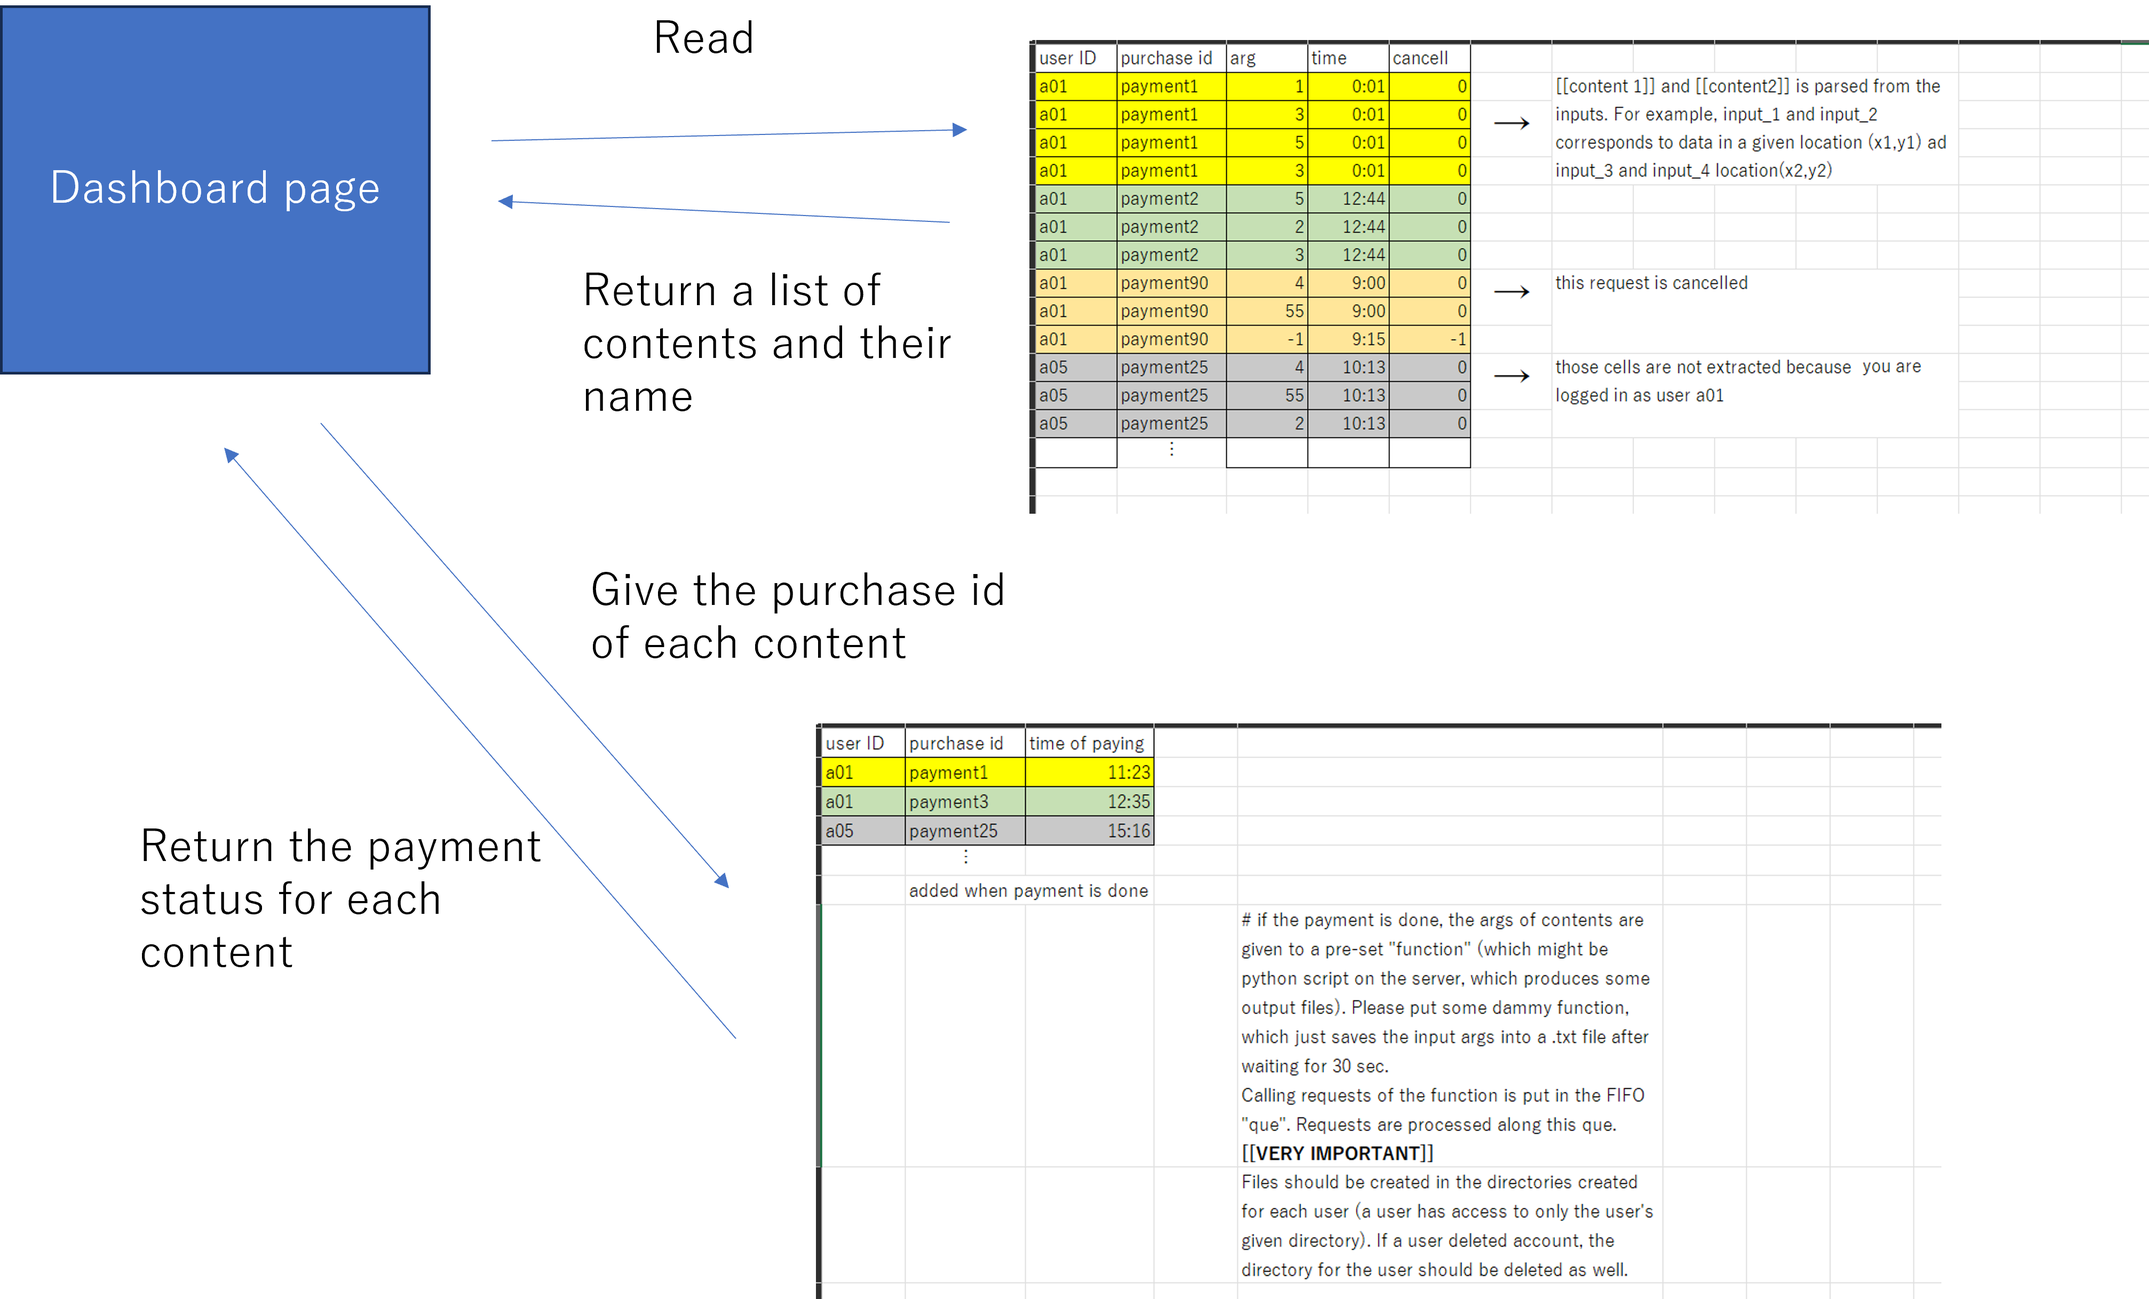
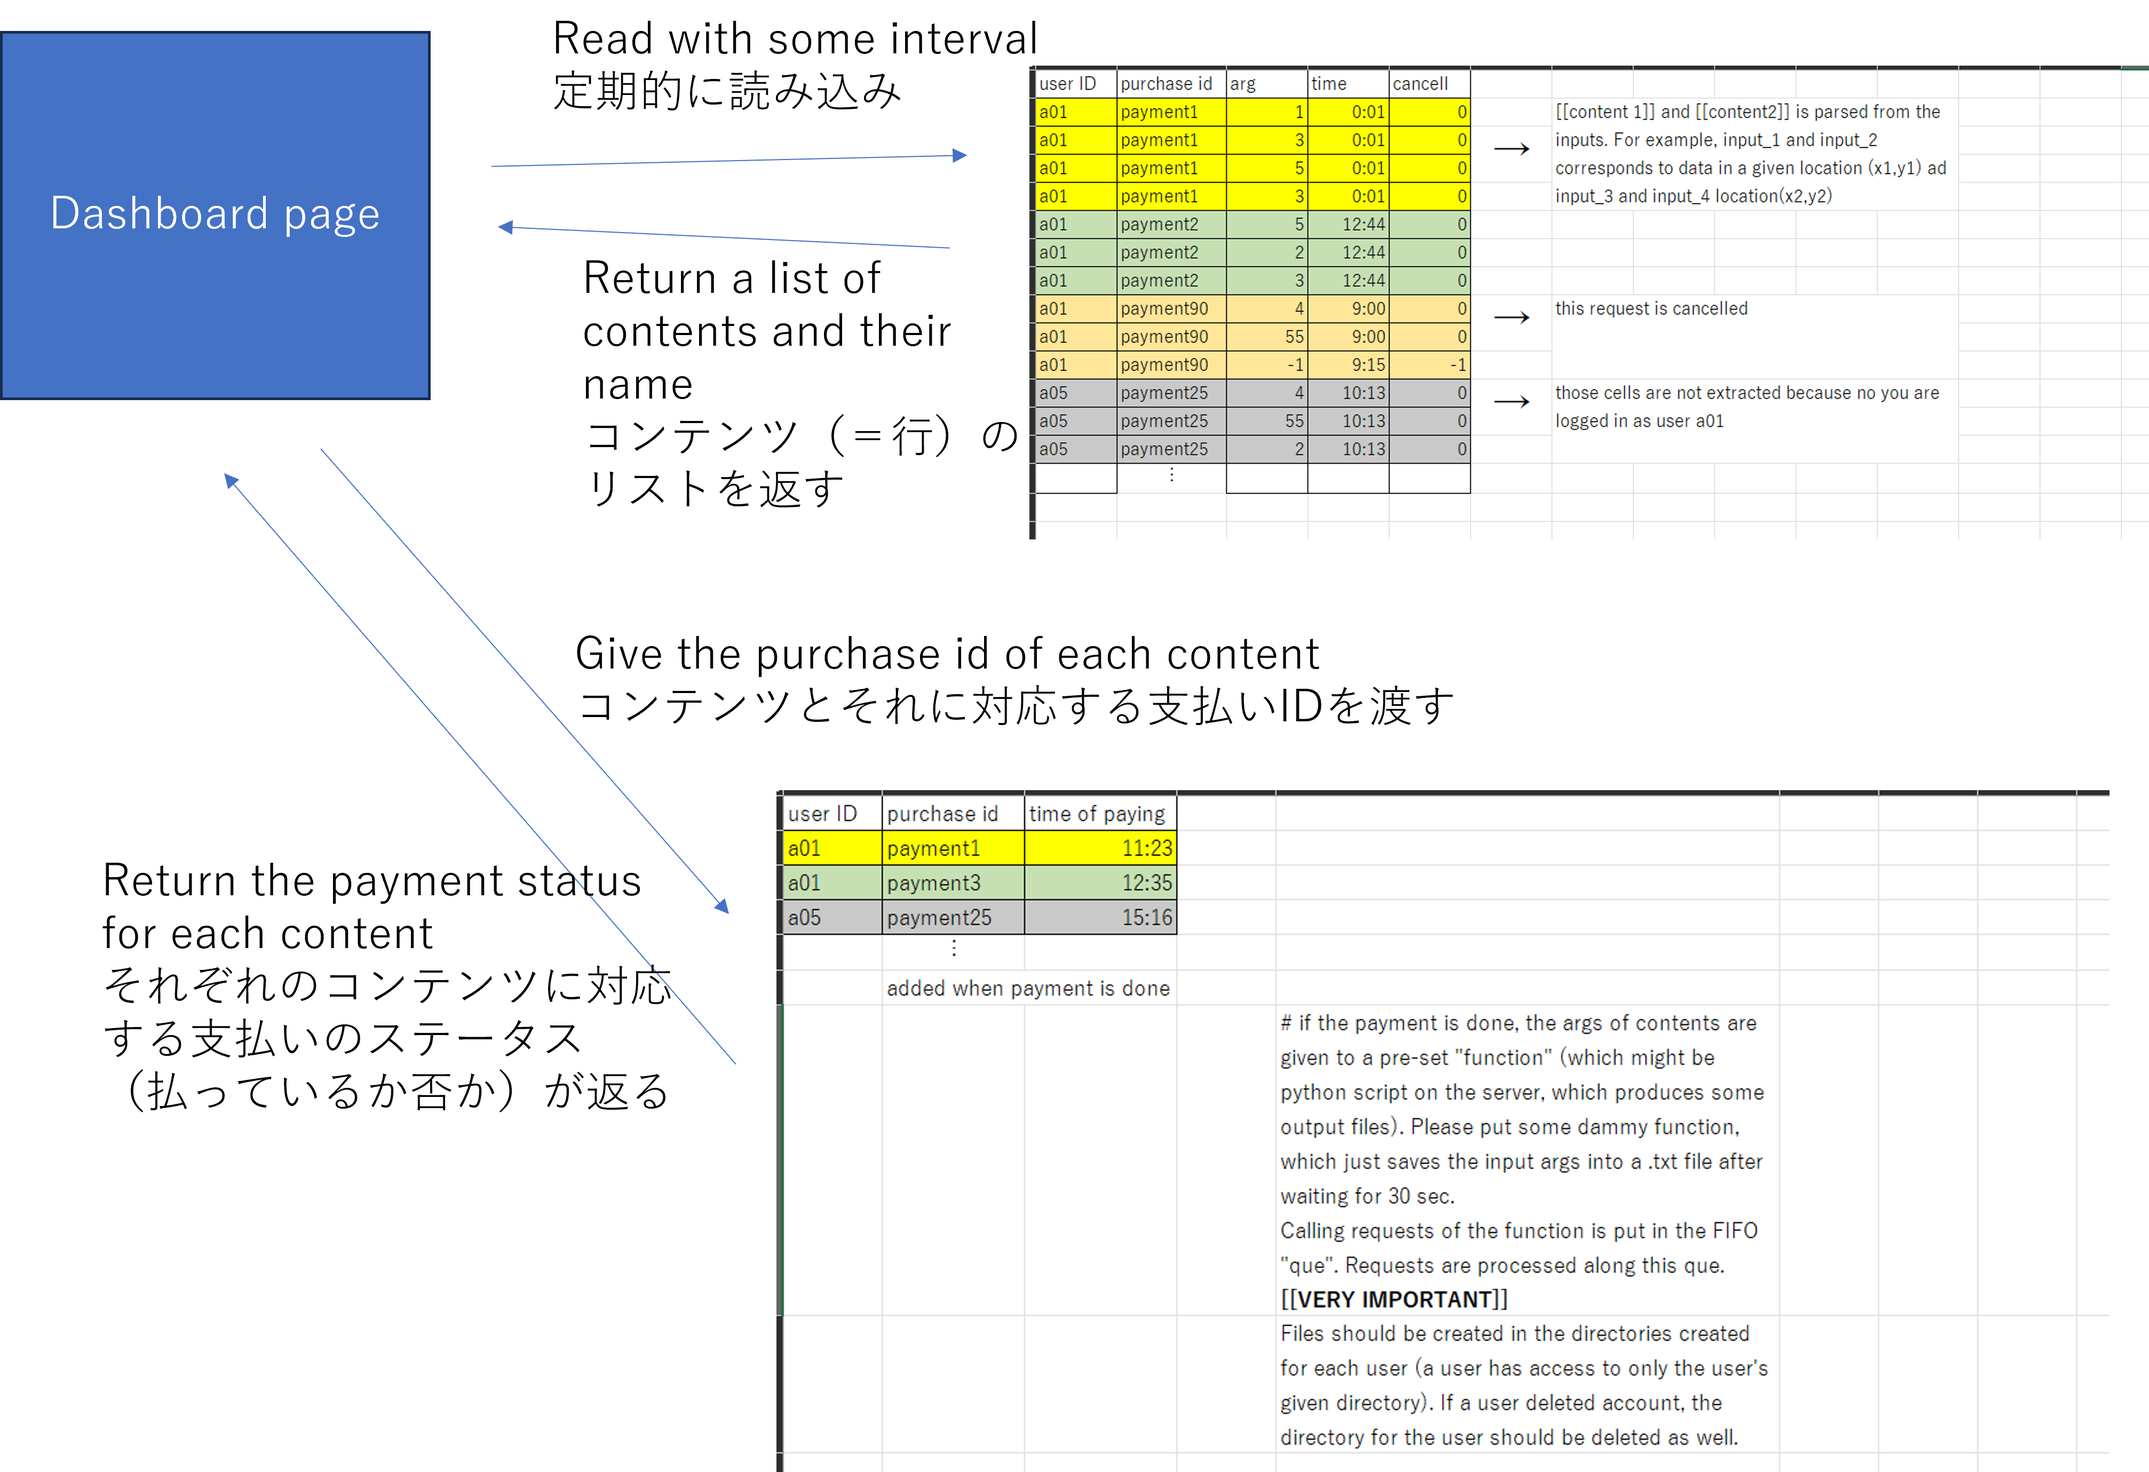
pay

diff --git a/new/dashboard_2.html b/new/dashboard_2.html
@@ -5,41 +5,56 @@
 <p><b>
 DASHBOARD
 </b></p>
-<font color="green"># contents are obtained from users input log table [db]. payment status is obtained from use payment log table [db]. This page may be scanning the payment log table to check whether each contents are ready for download.</font>
+<font color="green"># contents are obtained from users input log table [db]. payment status is obtained from use payment log table [db]. This page may be scanning the payment log table to check whether each contents are ready for download.<br>
+# コンテンツはユーザ入力ログテーブル[db]から取得され、支払状況は利用支払ログテーブル[db]から取得される。このページは、各コンテンツがダウンロード可能かどうかをチェックするために、支払いログテーブルをスキャンし、情報をアップデートする。</font>
 
 
 <p>
-[[content1]]|[[payment1]]|<a href="download.html">download</a> <font color="green"># if the payment is done and the file is ready. button starts downloading of the produced file</font>
+[[content1]]|[[payment1]]|<a href="download.html">download</a> <font color="green"># if the payment is done and the file is ready. button starts downloading of the produced file. # 支払いが完了し、ファイルの準備ができた場合、ボタンが生成されたファイルのダウンロードを開始する。</font>
 </p>
 
 <p>
-[[content2]]|[[payment1]]|file processing <font color="green"># if the payment is done and the file is not ready</font> → <a href="download.html">download</a><font color="green"># ★★★after the file is ready</font>
+[[content2]]|[[payment1]]|file processing <font color="green"># if the payment is done and the file is not ready. # 支払いが完了し、ファイルの準備ができていない場合</font> → <a href="download.html">download</a><font color="green"># ★★★after the file is ready, the download button appears # ファイルが準備できると、ダウンロードボタンに切り替わる</font>
 </p>
 
 <p>
-[[content3]]|[[payment2]]|file processing <font color="green"># ★★★payment is done!</font>　→ <a href="download.html">download</a><font color="green"># ★★★after the file is ready</font>
+[[content3]]|[[payment1]]|file processing <font color="green"># If the payment is done and the file is not ready. # 支払いが完了し、ファイルの準備ができていない場合</font>
 </p>
 
 <p>
-[[content4]]|[[payment2]]|- <font color="green"># multiple contents for a single payment</font>
+[[content4]]|[[payment1]]|file processing <font color="green"># If the payment is done and the file is not ready. # 支払いが完了し、ファイルの準備ができていない場合</font>
 </p>
 
 <p>
-[[content5]]|[[payment2]]|- <font color="green"># multiple contents for a single payment</font>
+[[content5]]|[[payment2]]|file processing <font color="green"># ★★★payment is done! # 支払いが終わると表示が切り替わる</font>　→ <a href="download.html">download</a><font color="green"># ★★★after the file is ready</font>
 </p>
 
 <p>
-[[content6]]|[[payment3]]|<a href="download.html">download</a> <font color="green"># if the payment is done and the file is ready</font>
+[[content6]]|[[payment2]]|- <font color="green"># multiple contents for a single payment</font>
+</p>
+
+<p>
+[[content7]]|[[payment2]]|- <font color="green"># multiple contents for a single payment</font>
+</p>
+
+<p>
+[[content8]]|[[payment3]]|<a href="download.html">download</a> <font color="green"># if the payment is done and the file is ready</font>
 </p>
 
 
 <p>
-<font color="green">#Report are to be added below.</font>
+<font color="green"># Report are to be added below (order should be sortable by time for example). # レポートは、この下にどんどん追加されていく（順番はソート可能にする）</font>
 </p>
 
-<font color="green"># ↓payment logs should be stored</font>
+<font color="green"># ↓The payment log is saved. Then the content corresponding to that payment is activated. Specifically, the value of the input corresponding to that content content is entered into the data extraction function. # 支払いログが保存される。すると、その支払いに対応しているコンテンツが有効化される。具体的には、そのコンテンツ内容をに対応するインプットの値が、データ抽出関数に入力される。</font>
 <br>
-<img src="demos/004.png" width="500">
+<br><font color="green"># Payment log. 支払いログの蓄積<br>
+<img src="demos/004.png" width="500"><br>
+
+<br><font color="green"># Dashboard content obtaining process. ダッシュボードのコンテンツをどうやって表示させるか<br>
+<img src="demos/005.png" width="900">
+<br>#Payment checking procedure. 支払いのチェック方法<br>
+<img src="demos/parser2.png" width="1000"></font>
 
 
 </body>

diff --git a/new/dashboard.html b/new/dashboard.html
@@ -5,42 +5,52 @@
 <p><b>
 DASHBOARD
 </b></p>
-<font color="green"># contents are obtained from users input log table [db]. payment status is obtained from use payment log table [db]. This page may be scanning the payment log table to check whether each contents are ready for download.</font>
+<font color="green"># contents are obtained from users input log table [db]. payment status is obtained from use payment log table [db]. This page may be scanning the payment log table to check whether each contents are ready for download.<br>
+# コンテンツはユーザ入力ログテーブル[db]から取得され、支払状況は利用支払ログテーブル[db]から取得される。このページは、各コンテンツがダウンロード可能かどうかをチェックするために、支払いログテーブルをスキャンし、情報をアップデートする。</font>
 
 
 
 <p>
-[[content1]]||[[payment1]]|<a href="download.html">download</a> <font color="green"># if the payment is done and the file is ready. button starts downloading of the produced file</font>
+[[content1]]||[[payment1]]|<a href="download.html">download</a> <font color="green"># If the payment is done and the file is ready. button starts downloading of the produced file. # 支払いが完了し、ファイルの準備ができた場合、ボタンが生成されたファイルのダウンロードを開始する。</font>
 </p>
 
 <p>
-[[content2]]|[[payment1]]|file processing <font color="green"># if the payment is done and the file is not ready</font>
+[[content2]]|[[payment1]]|file processing <font color="green"># If the payment is done and the file is not ready. # 支払いが完了し、ファイルの準備ができていない場合</font>
 </p>
 
 <p>
-[[content3]]|[[payment2]]|<a href="payment.html">pay</a>|<a href="cancell.html">cancel</a> <font color="green"># if the payment is not done. the unpaid content list have cancell button which adds "-1" request in the input log table (see below).</font>
+[[content3]]|[[payment1]]|file processing <font color="green"># If the payment is done and the file is not ready. # 支払いが完了し、ファイルの準備ができていない場合</font>
 </p>
 
 <p>
-[[content4]]|[[payment2]]|- <font color="green"># multiple contents for a single payment</font>
+[[content4]]|[[payment1]]|file processing <font color="green"># If the payment is done and the file is not ready. # 支払いが完了し、ファイルの準備ができていない場合</font>
 </p>
 
 <p>
-[[content5]]|[[payment2]]|- <font color="green"># multiple contents for a single payment</font>
+[[content5]]|[[payment2]]|<a href="payment.html">pay</a>|<a href="cancell.html">cancel</a> <font color="green"># If the payment is not done. the unpaid content list have cancell button which adds "-1" request in the input log table (see below). # 支払いが完了していない場合, 未払いコンテンツリストにはキャンセルボタンがあり, 入力ログテーブルに「-1」リクエストが追加される(下記参照).</font>
 </p>
 
 <p>
-[[content6]]|[[payment3]]|<a href="download.html">download</a> <font color="green"># if the payment is done and the file is ready</font>
+[[content6]]|[[payment2]]|- <font color="green"># multiple contents for a single payment. #一つの支払いが、複数のコンテンツに対応している</font>
+</p>
+
+<p>
+[[content7]]|[[payment2]]|- <font color="green"># multiple contents for a single payment</font>
+</p>
+
+<p>
+[[content8]]|[[payment3]]|<a href="download.html">download</a> <font color="green"># If the payment is done and the file is ready</font>
 </p>
 
 
 <p>
-<font color="green">#Report are to be added below.</font>
+<font color="green"># Report are to be added below (order should be sortable by time for example). # レポートは、この下にどんどん追加されていく（順番はソート可能にする）</font>
 </p>
 
-<font color="green">#↓How inputs should be parsed into contents. The input parser at the time the sample was created should be set up with a function to separate each input into parts so that each part has two inputs. Then the parts correspond to the each content. Importantly, the number of contents to be displayed on this dashboard and the name of each are generated from the input log table.</font>
-<br>
+<br><font color="green"># Dashboard content obtaining process. ダッシュボードのコンテンツをどうやって表示させるか<br>
 <img src="demos/005.png" width="900">
+<br>#Payment checking procedure. 支払いのチェック方法<br>
+<img src="demos/parser2.png" width="1000"></font>
 
 
 

diff --git a/new/input.html b/new/input.html
@@ -6,7 +6,8 @@
 DATA ENTRY
 </b></p>
 
-<font color="green"># We want to creaet a data provide system with user authentification and payment. The system to be created using AWS. the data for provision are to be extracted from the dataset which are located in the cloud server such as AWS S3 (raster format, in detail). The extraction is made by giving input arguments (such as data id and longitude/latitude) to the data-extraction function which is also to located and run in the cloud computer (I'm thinking of AWS EC2). To acheive this, we at least need to have (1) user authentification system, (2) input log database and its user interface, (3) payment log database and payment interface which triggers the data extraction function to run while sending args to the function, (4) download interface (DASHBOARD). Here the below describes how it should works. It would also be necessary to give each user permission to a directory in S3, and to store the files generated as a result of requests made by a specific user in that directory.</font>
+<font color="green"># We want to create a data provide system with user authentification and payment. The system to be created using AWS. the data for provision are to be extracted from the dataset which are located in the cloud server such as AWS S3 (raster format, in detail). The extraction is made by giving input arguments (such as data id and longitude/latitude) to the data-extraction function which is also to located and run in the cloud computer (I'm thinking of AWS EC2, and python). To achieve this, we at least need to have (1) user authentication system, (2) input log database and its user interface, (3) payment log database and payment interface which triggers the data extraction function to run while sending args to the function, (4) download interface (DASHBOARD). Here the below describes how it should works. It would also be necessary to give each user permission to a directory in S3, and to store the files generated as a result of requests made by a specific user in that directory.<br><br>
+# 日本語：ユーザー認証と決済を伴うデータ提供システムを作りたい。提供するデータは、AWS S3などのクラウドサーバにあるデータセット（ラスタ形式）から抽出する。抽出は、データ抽出関数（pythonで実装される）に入力引数（データIDや経度・緯度など）を与えることで行われる。これを実現するためには、少なくとも(1)ユーザー認証システム、(2)入力ログ・データベースとそのユーザー・インターフェース、(3)支払いログ・データベースと支払いインターフェース、(4)ダウンロード・インターフェース（DASHBOARD）が必要だ。以下はその仕組みである。また、各ユーザにS3のディレクトリへのアクセス権を与え、特定のユーザがリクエストした結果生成されたファイルをそのディレクトリに保存する必要がある。</font>
 
 <p>input_1：<br>
 <input type="text" name="name"></p>
@@ -22,7 +23,8 @@ DATA ENTRY
 
 <p><a href="account.html">button↑ action without login</a> / <a href="confirm.html">with login</a></p>
 
-<font color="green"># the number of input columns should be changeable.<br>
-inputs are stored in the input database table. 
+<font color="green"># The number of input columns should be changeable (datatype is changeable as well; str, int etc.). An interface for inputs will be implemeted separately. Please temporarily place a simple data input form like the one shown above.<br>Inputs are stored in the input database table. 
+<br>#  入力カラムの数は変更可能にしてください（それぞれのデータタイプも可変に）。インプットのためのインターフェースは、別途作成する予定です。上に示すようなシンプルなデータ入力フォームを仮置きしておいてください。<br>入力は入力データベースのテーブルに格納されます。
+
 </font>
 </body>

diff --git a/new/payment.html b/new/payment.html
@@ -3,14 +3,17 @@
 <body>
 
 <p>
-Amount of your [[payment2]] is [[price]] <font color="green"># price is calculated by processing parsed inputs (input_1 to input_n).</font>
+Amount of your [[payment2]] is [[price]] <font color="green"># Price is calculated by processing parsed inputs (input_1 to input_n; to be implemented in some language). For this sample, temporarily place a function that takes an input and returns a random int value.<br>
+# 価格は、input_1からinput_nを渡すことで計算されるようにする（何らかの言語で実装する）。今回のサンプルでは、入力を受け取って、ランダムに数値を返す関数を仮置きしてください。
+
+</font>
 </p>
 
 <p>
 <button type="button">Pay</button><a href="dashboard.html">
 <a href="dashboard_2.html"><font color="green"># action after payment</font></a>
 <br><br>
-<font color="green"># ↓Payment logs should be stored and function producing file is activated</font>
+<font color="green"># ↓The payment log is saved. Then the content corresponding to that payment is activated. Specifically, the value of the input corresponding to that content content is entered into the data extraction function. # 支払いログが保存される。すると、その支払いに対応しているコンテンツが有効化される。具体的には、そのコンテンツ内容をに対応するインプットの値が、データ抽出関数に入力される。</font>
 <br>
 <img src="demos/003.png" width="500">
 

diff --git a/new/confirm.html b/new/confirm.html
@@ -16,7 +16,9 @@ CONFIRM INPUT<br>your purchase id is [[payment1]]
 <button type="button">Add to your list</button><a href="dashboard.html">#action if logged in</a>
 </p>
 
-<font color="green"># those inputs are parsed into one or more "contents"<br>↓how inputs should be stored</font>
+<font color="green"># ↓How inputs should be stored<br>
+# 以下が、データがどのようにストアされるべきかを示した図。
+</font>
 <br>
 <img src="demos/001.png" width="500">
 
